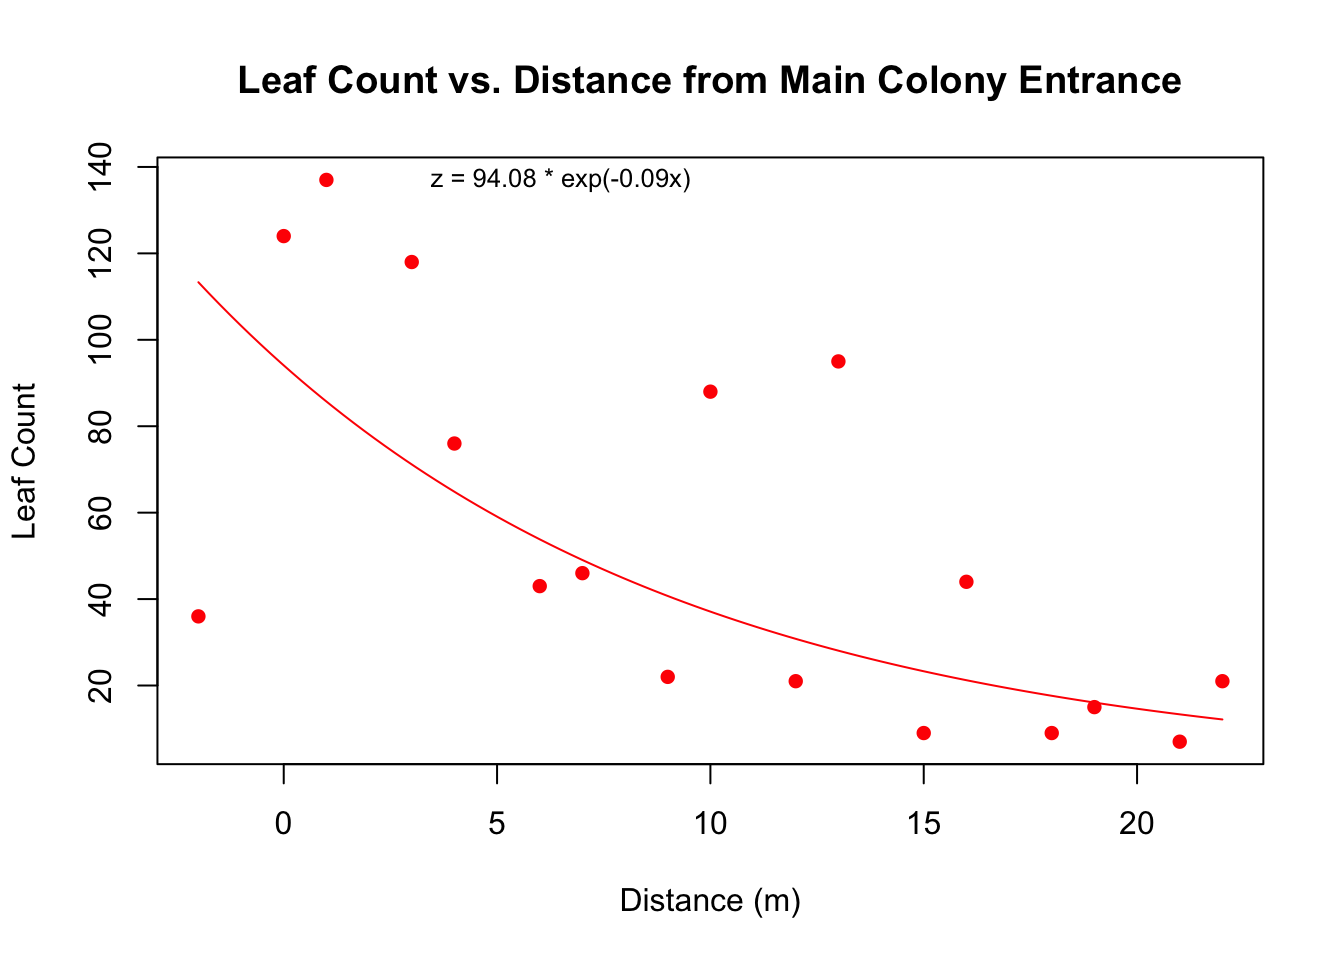
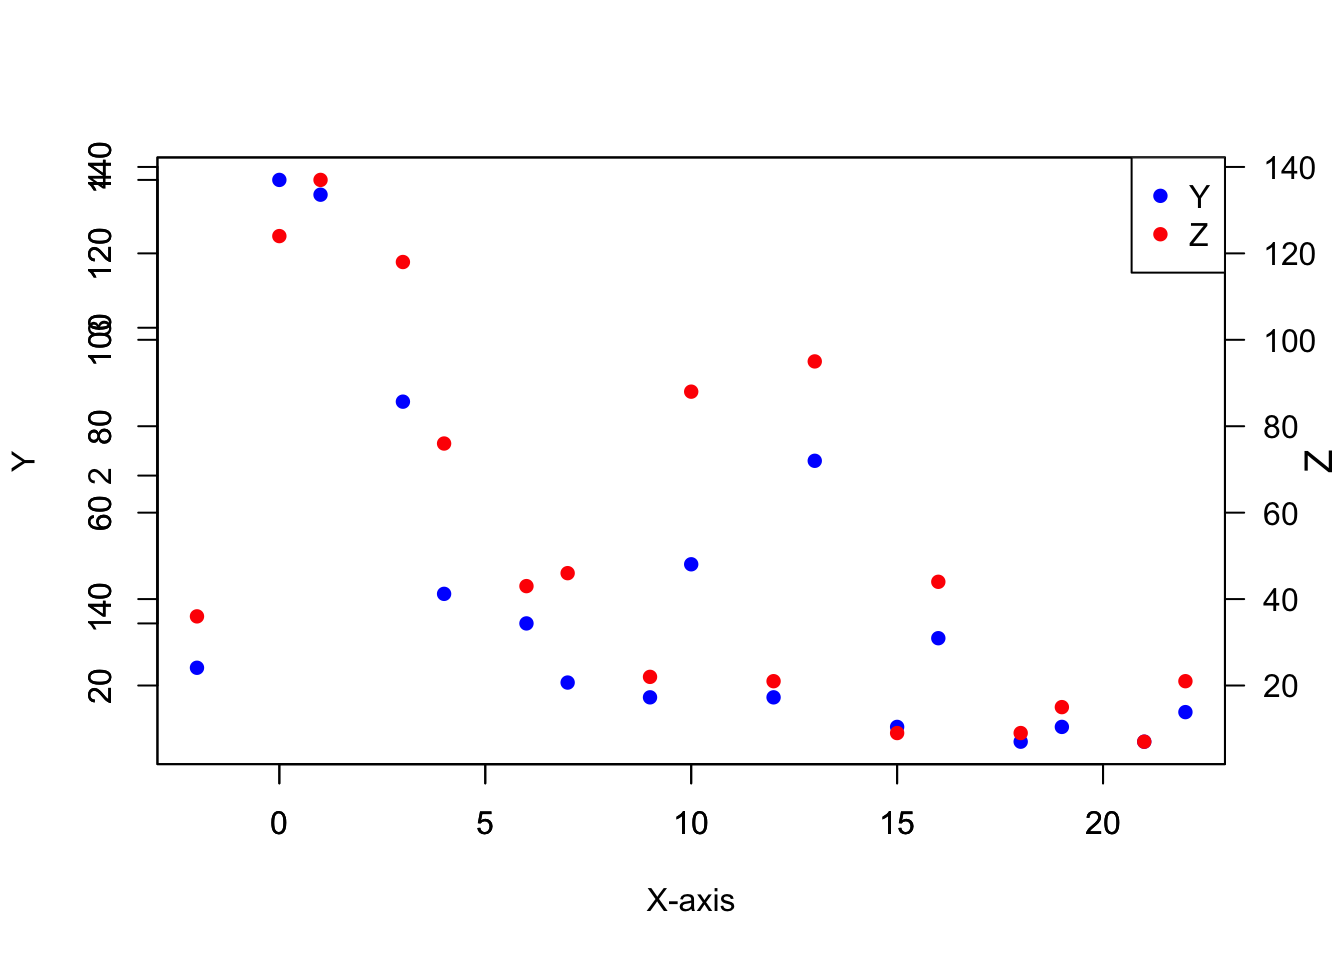
R Commit

diff --git a/Scatter Plot.html b/Scatter Plot.html
@@ -228,6 +228,35 @@ pre > code.sourceCode > span > a:first-child::before { text-decoration: underlin
 </div>
 </div>
 </section>
+<section id="plot-both-leaf-count-and-mass-vs.-distance-on-the-same-graph" class="level2">
+<h2 class="anchored" data-anchor-id="plot-both-leaf-count-and-mass-vs.-distance-on-the-same-graph">Plot both Leaf Count and Mass vs.&nbsp;Distance on the same graph</h2>
+<div class="cell">
+<div class="sourceCode cell-code" id="cb8"><pre class="sourceCode r code-with-copy"><code class="sourceCode r"><span id="cb8-1"><a href="#cb8-1" aria-hidden="true" tabindex="-1"></a><span class="co"># Set up the first plotting region</span></span>
+<span id="cb8-2"><a href="#cb8-2" aria-hidden="true" tabindex="-1"></a><span class="co"># Set up the plotting region</span></span>
+<span id="cb8-3"><a href="#cb8-3" aria-hidden="true" tabindex="-1"></a><span class="fu">par</span>(<span class="at">mar =</span> <span class="fu">c</span>(<span class="dv">5</span>, <span class="dv">4</span>, <span class="dv">4</span>, <span class="dv">2</span>) <span class="sc">+</span> <span class="fl">0.1</span>, <span class="at">oma =</span> <span class="fu">c</span>(<span class="dv">0</span>, <span class="dv">0</span>, <span class="dv">0</span>, <span class="dv">1</span>))</span>
+<span id="cb8-4"><a href="#cb8-4" aria-hidden="true" tabindex="-1"></a><span class="fu">plot</span>(x, y, <span class="at">type =</span> <span class="st">"p"</span>, <span class="at">col =</span> <span class="st">"blue"</span>, <span class="at">pch =</span> <span class="dv">16</span>, <span class="at">ylab =</span> <span class="st">"Y"</span>, <span class="at">xlab =</span> <span class="st">"X-axis"</span>)</span>
+<span id="cb8-5"><a href="#cb8-5" aria-hidden="true" tabindex="-1"></a></span>
+<span id="cb8-6"><a href="#cb8-6" aria-hidden="true" tabindex="-1"></a><span class="co"># Overlay the second set of points</span></span>
+<span id="cb8-7"><a href="#cb8-7" aria-hidden="true" tabindex="-1"></a><span class="fu">par</span>(<span class="at">new =</span> <span class="cn">TRUE</span>)</span>
+<span id="cb8-8"><a href="#cb8-8" aria-hidden="true" tabindex="-1"></a><span class="fu">plot</span>(x, z, <span class="at">type =</span> <span class="st">"p"</span>, <span class="at">col =</span> <span class="st">"red"</span>, <span class="at">pch =</span> <span class="dv">16</span>, <span class="at">ylab =</span> <span class="st">""</span>, <span class="at">xlab =</span> <span class="st">""</span>)</span>
+<span id="cb8-9"><a href="#cb8-9" aria-hidden="true" tabindex="-1"></a></span>
+<span id="cb8-10"><a href="#cb8-10" aria-hidden="true" tabindex="-1"></a></span>
+<span id="cb8-11"><a href="#cb8-11" aria-hidden="true" tabindex="-1"></a><span class="co"># Add a y-axis on the right side for Z</span></span>
+<span id="cb8-12"><a href="#cb8-12" aria-hidden="true" tabindex="-1"></a><span class="fu">axis</span>(<span class="dv">4</span>, <span class="at">col =</span> <span class="st">"black"</span>, <span class="at">col.axis =</span> <span class="st">"black"</span>, <span class="at">las =</span> <span class="dv">1</span>)  <span class="co"># Set color for Z axis</span></span>
+<span id="cb8-13"><a href="#cb8-13" aria-hidden="true" tabindex="-1"></a></span>
+<span id="cb8-14"><a href="#cb8-14" aria-hidden="true" tabindex="-1"></a><span class="co"># Remove the Y2 axis label on the left side</span></span>
+<span id="cb8-15"><a href="#cb8-15" aria-hidden="true" tabindex="-1"></a><span class="fu">axis</span>(<span class="dv">2</span>, <span class="at">col =</span> <span class="st">"transparent"</span>, <span class="at">col.lab =</span> <span class="st">"transparent"</span>)</span>
+<span id="cb8-16"><a href="#cb8-16" aria-hidden="true" tabindex="-1"></a></span>
+<span id="cb8-17"><a href="#cb8-17" aria-hidden="true" tabindex="-1"></a><span class="co"># Add a label on the right side for Y2</span></span>
+<span id="cb8-18"><a href="#cb8-18" aria-hidden="true" tabindex="-1"></a><span class="fu">mtext</span>(<span class="st">"Z"</span>, <span class="at">side =</span> <span class="dv">4</span>, <span class="at">line =</span> <span class="dv">2</span>, <span class="at">col =</span> <span class="st">"black"</span>, <span class="at">cex =</span> <span class="fl">1.2</span>)  <span class="co"># Adjust line and cex as needed</span></span>
+<span id="cb8-19"><a href="#cb8-19" aria-hidden="true" tabindex="-1"></a></span>
+<span id="cb8-20"><a href="#cb8-20" aria-hidden="true" tabindex="-1"></a><span class="co"># Add a legend</span></span>
+<span id="cb8-21"><a href="#cb8-21" aria-hidden="true" tabindex="-1"></a><span class="fu">legend</span>(<span class="st">"topright"</span>, <span class="at">legend =</span> <span class="fu">c</span>(<span class="st">"Y"</span>, <span class="st">"Z"</span>), <span class="at">col =</span> <span class="fu">c</span>(<span class="st">"blue"</span>, <span class="st">"red"</span>), <span class="at">pch =</span> <span class="dv">16</span>)</span></code><button title="Copy to Clipboard" class="code-copy-button"><i class="bi"></i></button></pre></div>
+<div class="cell-output-display">
+<p><img src="Scatter-Plot_files/figure-html/unnamed-chunk-6-1.png" class="img-fluid" width="672"></p>
+</div>
+</div>
+</section>
 
 </main>
 <!-- /main column -->
